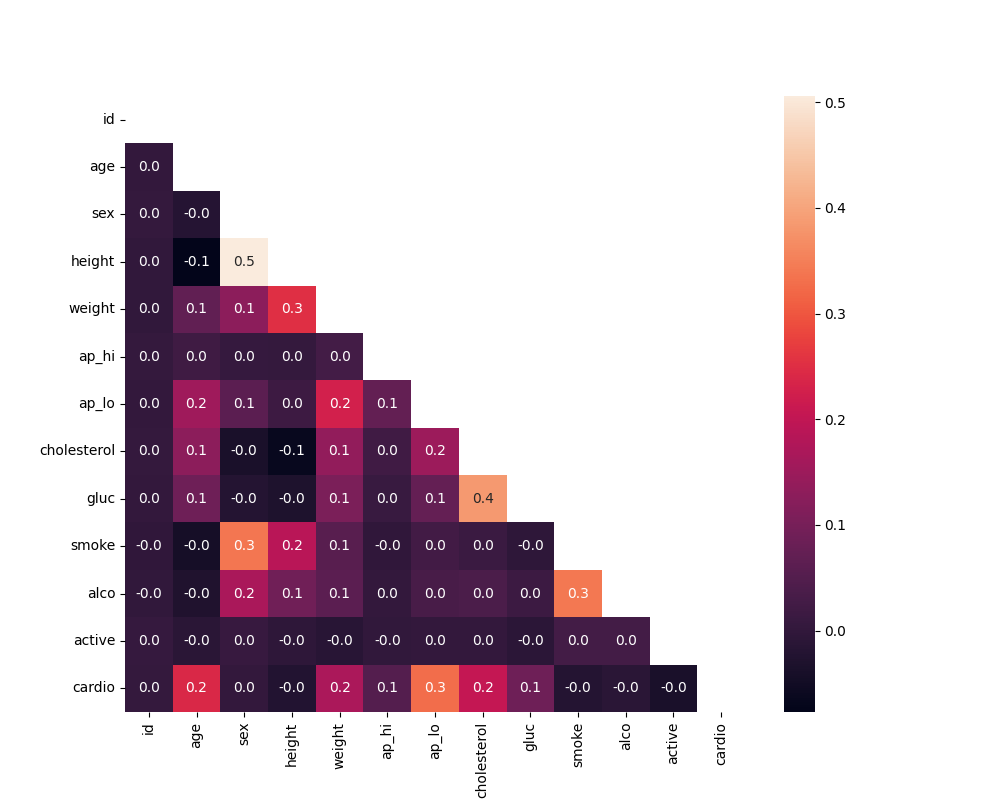
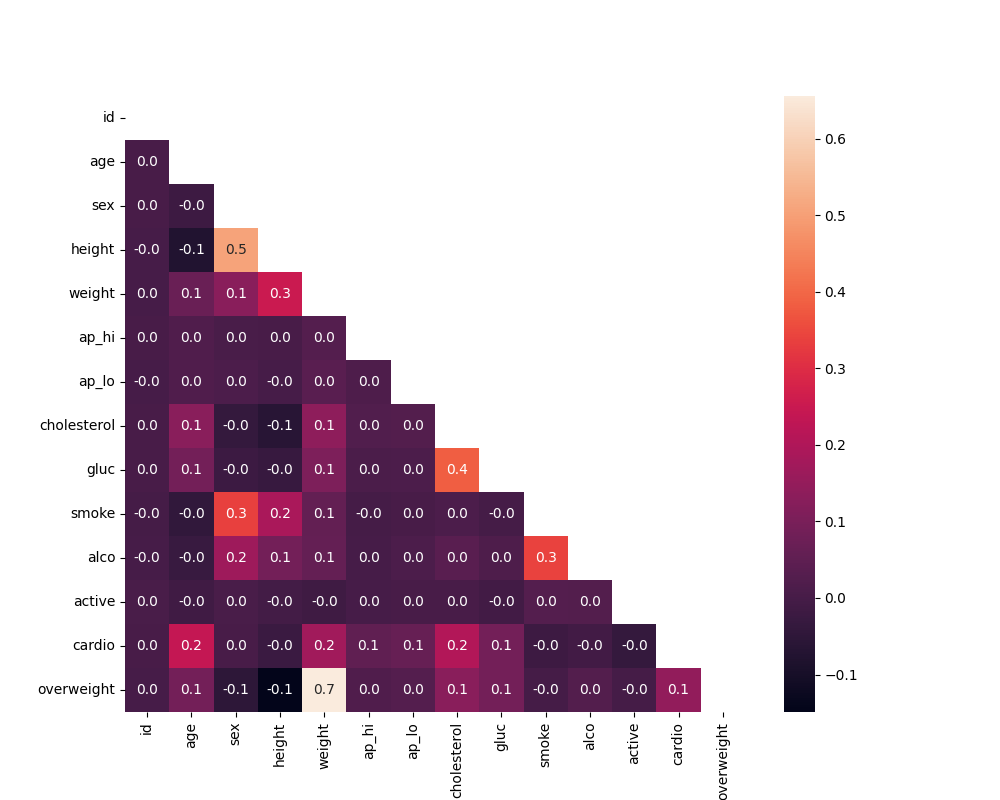
Fixed errors

diff --git a/medical_data_visualizer.py b/medical_data_visualizer.py
@@ -7,7 +7,8 @@ import numpy as np
 df = pd.read_csv('medical_examination.csv')
 
 # 2
-df['overweight'] = None
+df['overweight'] = (df['weight'] / ((df['height'] / 100) ** 2) > 25)
+df['overweight'] = df['overweight'].map({True: 1, False: 0})
 
 # 3
 df['cholesterol'] = df['cholesterol'].map({1: 0, 2: 1, 3:1})
@@ -26,27 +27,33 @@ def draw_cat_plot():
     # 7
 
     catplot = sns.catplot(data=df_cat, x='variable', y='count', hue='value', col="cardio", kind='bar')
+    catplot.set_axis_labels('variable', 'total')
+
 
     # 8
-    fig = catplot
-
+    fig = catplot.fig
+    
 
     # 9
     fig.savefig('catplot.png')
     return fig
-draw_cat_plot()
 
 # 10
 def draw_heat_map():
+    lower_quantile_height = df['height'].quantile(0.025)
+    upper_quantile_height = df['height'].quantile(0.975)
+    lower_quantile_weight = df['weight'].quantile(0.025)
+    upper_quantile_weight = df['weight'].quantile(0.975)
+
     # 11
-    df_heat = df[((df['ap_lo'] <= df['ap_hi'])) & 
-                (df['height'] >= df['height'].quantile(0.025)) &
-                (df['height'] <= df['height'].quantile(0.975)) & 
-                (df['weight'] >= df['weight'].quantile(0.025)) & 
-                (df['weight'] <= df['weight'].quantile(0.975))]
+    df_heat = df[(df['height'] >= lower_quantile_height) &
+                (df['height'] <= upper_quantile_height) & 
+                (df['weight'] >= lower_quantile_weight) & 
+                (df['weight'] <= upper_quantile_weight)]
 
     # 12
-    corr = df_heat.corr()
+    corr = df_heat.corr(numeric_only=False)
+
 
     # 13
     mask = np.triu(np.ones(corr.shape)).astype(bool)
@@ -59,12 +66,10 @@ def draw_heat_map():
 
     # 15 
     sns.heatmap(corr, mask=mask, annot=True, ax=ax, fmt="0.1f")
- 
+    plt.show()
 
 
 
     # 16
     fig.savefig('heatmap.png')
     return fig
-
-draw_heat_map()
